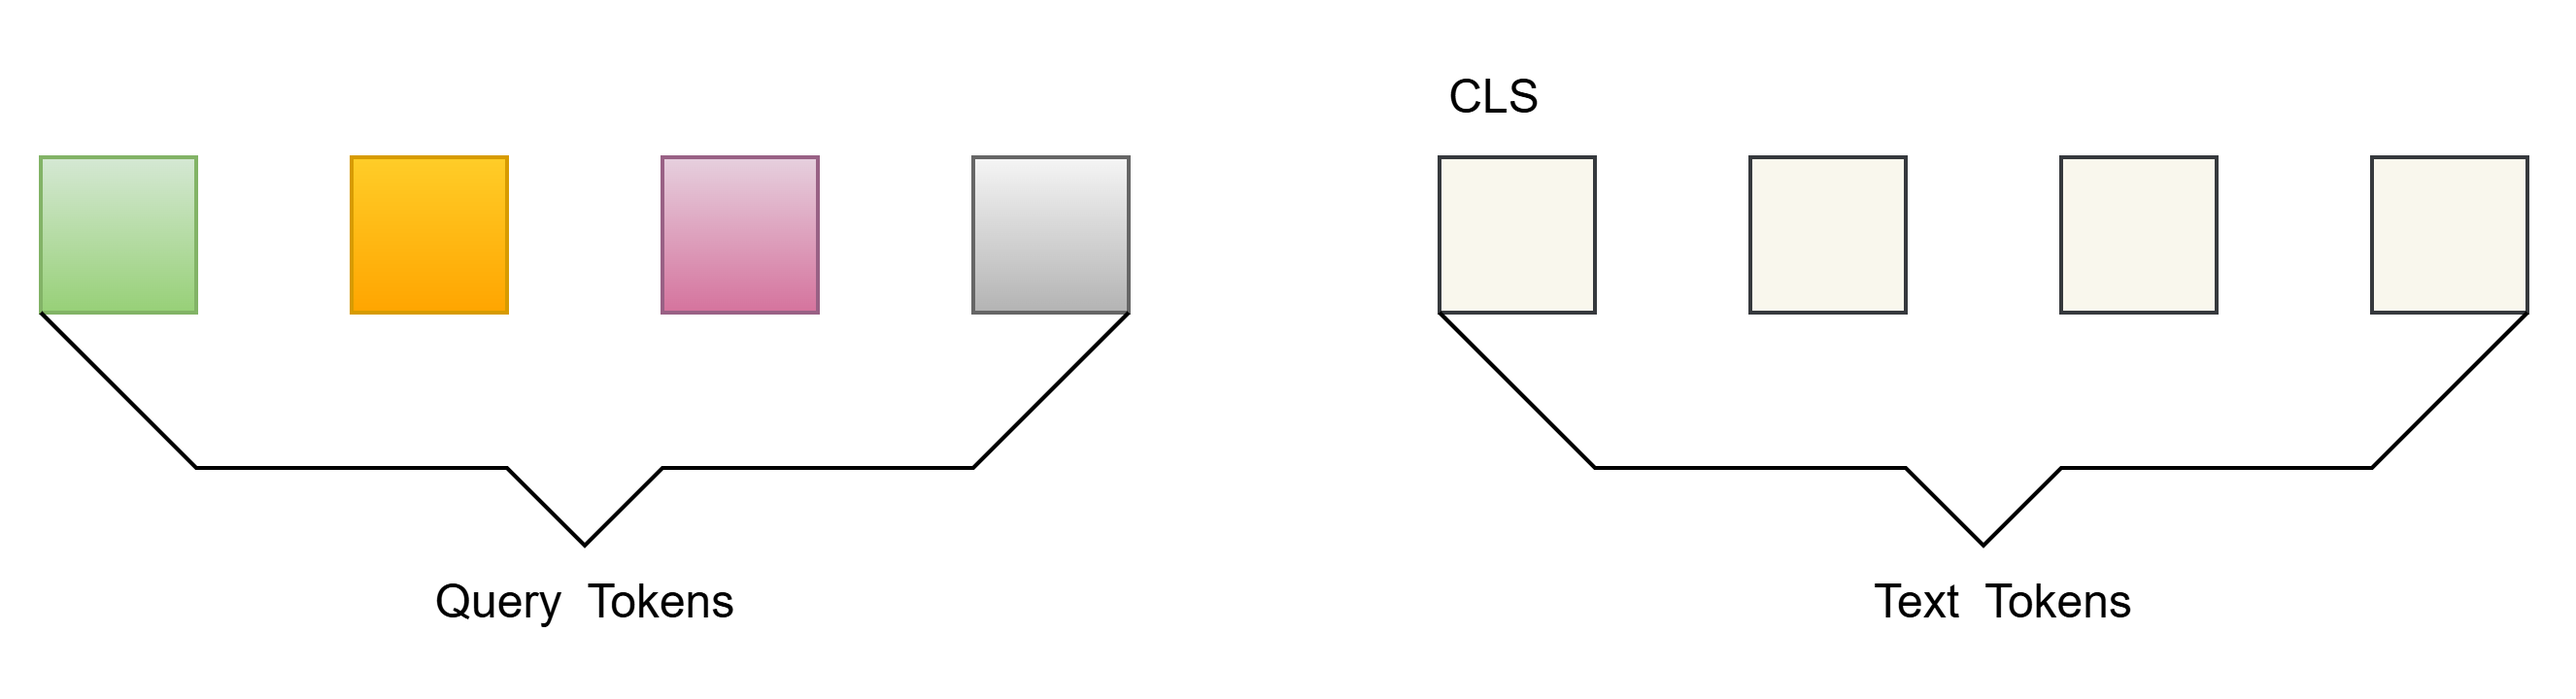
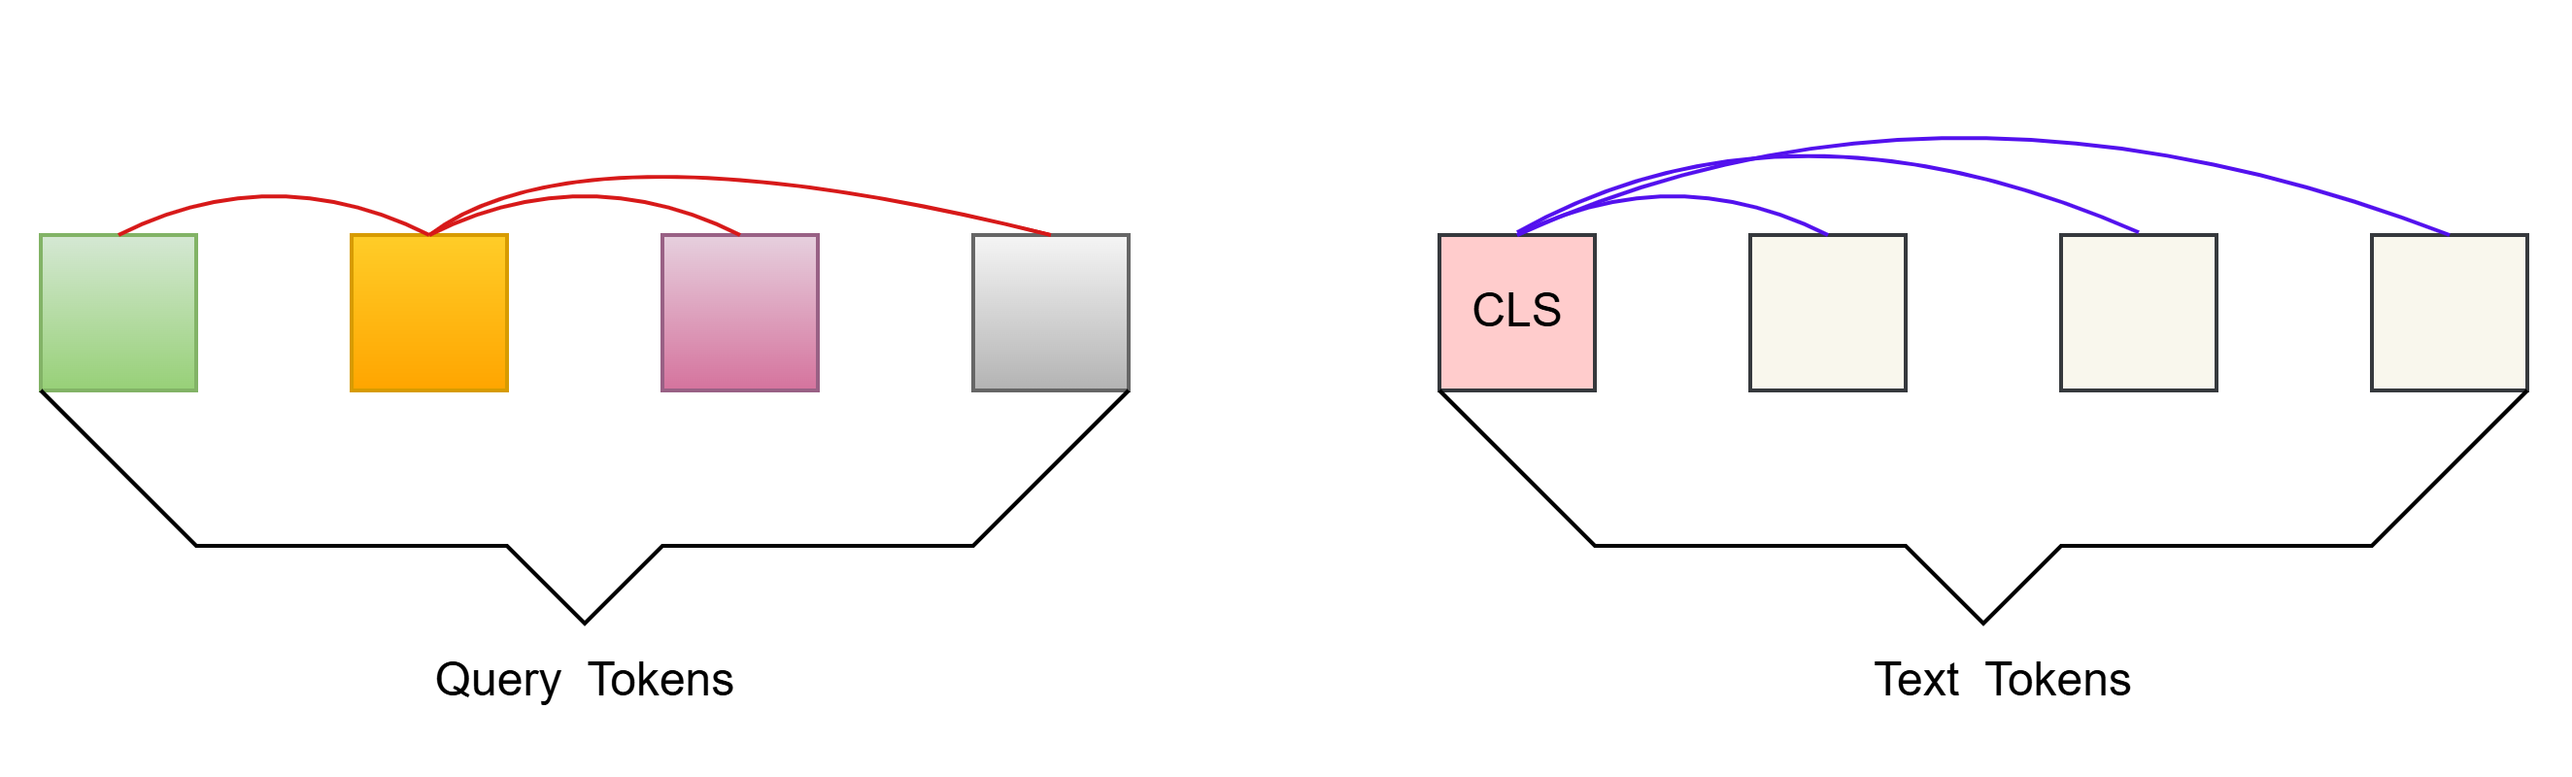
updates

diff --git a/src/MMLLM/庖丁解牛BLIP2.md b/src/MMLLM/庖丁解牛BLIP2.md
@@ -140,7 +140,7 @@ class Blip2Qformer(Blip2Base):
 
 为了训练好Q-Former，第一阶段设计了三个训练目标，分别如下:
 
-1、Image-Text Contrastive Learning (ITC Loss, CLIP-like)
+#### 1、Image-Text Contrastive Learning (ITC Loss, CLIP-like)
 
 > 目的: Image representation 与 Text representation，以最大化互信息
 >
@@ -193,7 +193,19 @@ image_feats 中每个 image_feat 与 text_feat 计算一个 similarity score ，
             F.cross_entropy(sim_i2t, targets, label_smoothing=0.1) + F.cross_entropy(sim_t2i, targets, label_smoothing=0.1)
         ) / 2
 ```
+#### 2、Image-Text Matching (ITM Loss，二分类task)
 
+> 目的：通过学习image-text pair是否match，以细粒度对齐 Image representation 与 Text representation
+>
+> 自注意力掩码策略: Bi-directional Self-attention Mask（双向自注意力）
+>
+> Queries 和Text都能和所有的tokens 做attention
+> ![Bi-directional Self-attention Mask](庖丁解牛BLIP2/7.png)
+
+
+每个output query embedding送到二分类器中，得到一个logit；所有logits的平均作为最终的matching score:
+
+![matching score](庖丁解牛BLIP2/8.png)
 
 
 BertLayer 核心代码实现如下:
